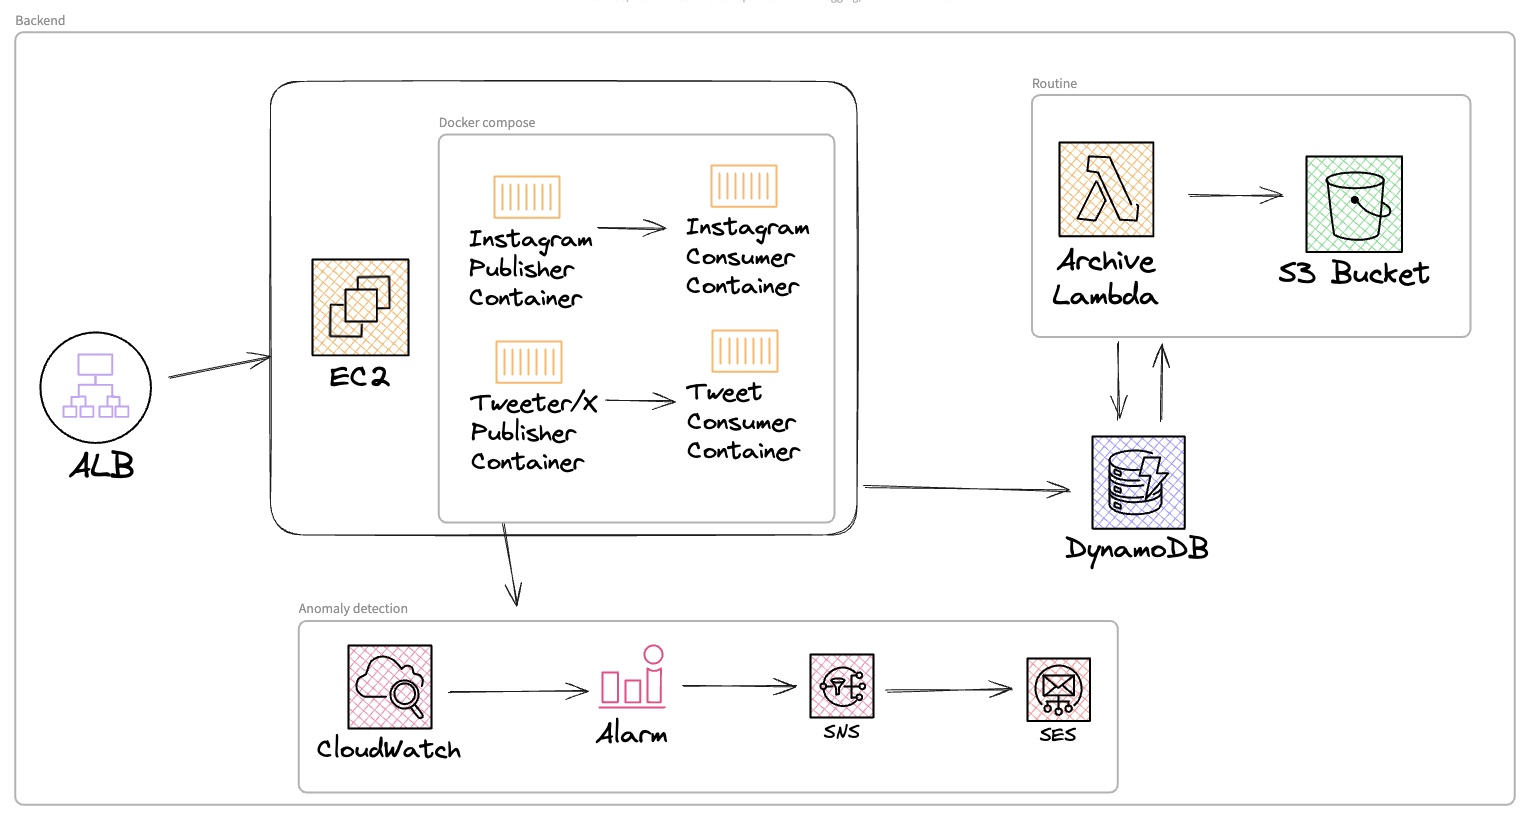
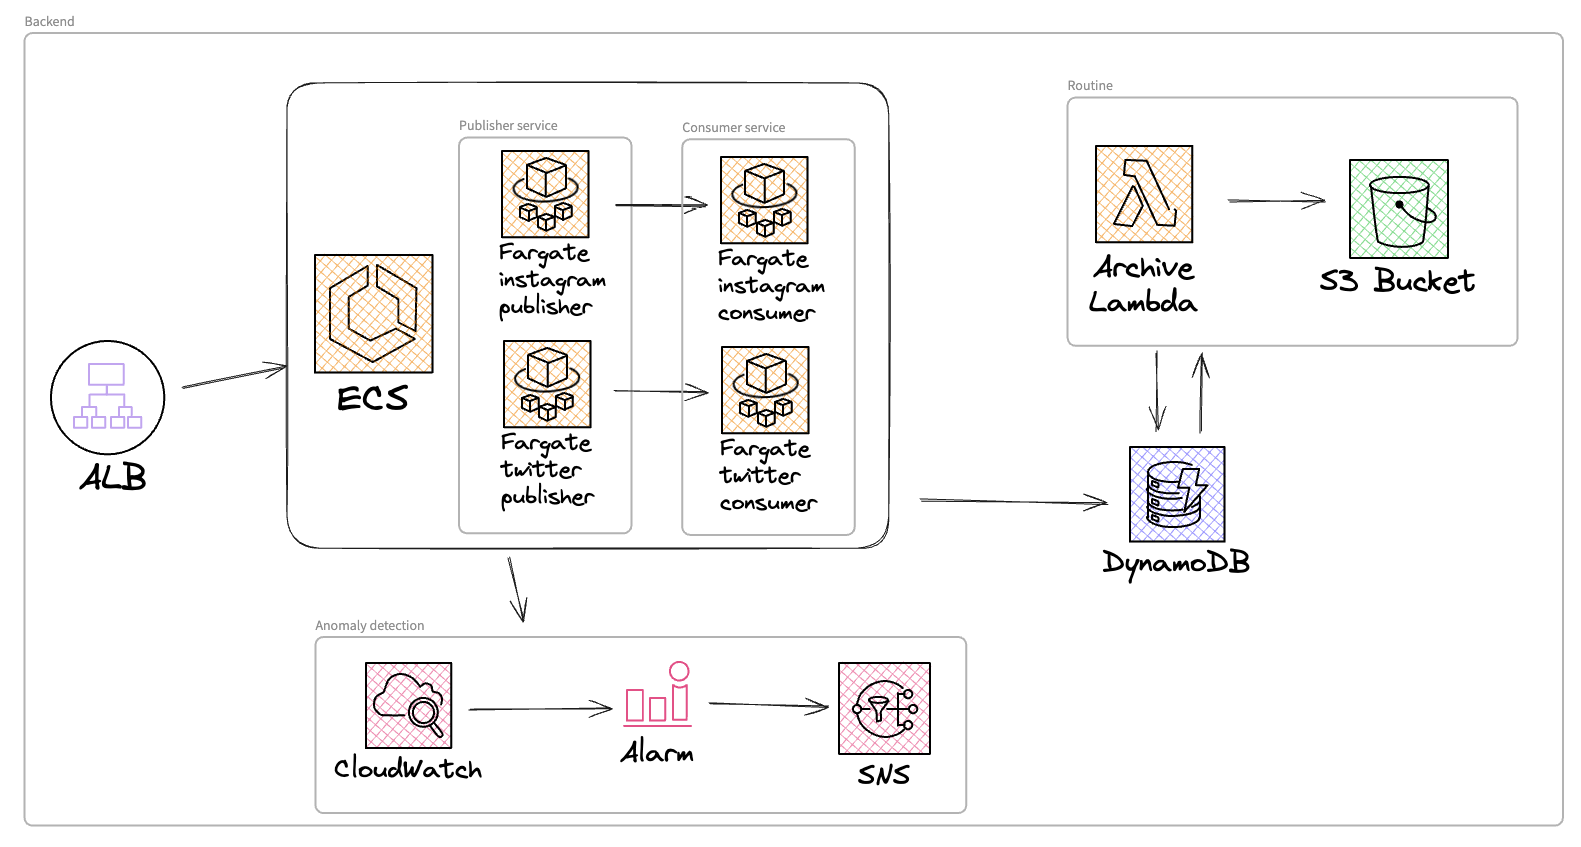
docs: :memo: updating infrastructure diagram

diff --git a/README.md b/README.md
@@ -4,7 +4,7 @@ Collect user data from posts and store it for reports and analyses.
 
 # Architecture
 
-![architectural-diagram](image.png)
+![architectural-diagram](docs/diagram.png)
 
 ## Useful commands
 
